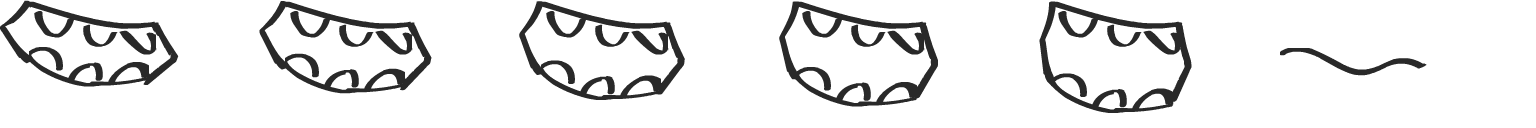
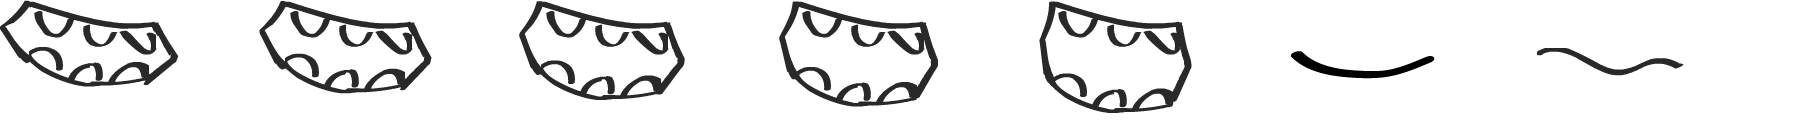
wip

Changed region(s): [[0.0, 0.0, 0.8125, 0.9062], [0.8125, 0.3438, 0.9375, 0.5938]]

diff --git a/src/components/Farty.vue b/src/components/Farty.vue
@@ -132,33 +132,33 @@ export default class Farty extends Vue {
     {
       id: 'food1',
       name: 'chicken',
-      file: require("../assets/chicken.svg"),
+      file: require("../assets/chicken.png"),
       foodObj: new Food('MEAT', 'meat1', 'audio', 15, 5, 0, 2)
     },
     {
       id: 'food2',
       name: 'hamburger',
-      file: require("../assets/hamburger.svg"),
+      file: require("../assets/cheese-burger.png"),
       foodObj: new Food('SANDWICH', 'burger', 'audio', 7, 7, 7, 2)
     },
     {
       id: 'food3',
       name: 'cheese',
-      file: require("../assets/cheese.svg"),
+      file: require("../assets/pizza.png"),
       foodObj: new Food('CHEESE', 'cheese1', 'audio', 15, 5, 0, .5)
     },
     {
       id: 'food4',
       name: 'bread',
-      file: require("../assets/bread.svg"),
+      file: require("../assets/bread.png"),
       foodObj: new Food('BREAD', 'bread1', 'audio', 0, 0, 20, .5)
     },
-    {
-      id: 'food5',
-      name: 'butter',
-      file: require("../assets/jar.svg"),
-      foodObj: new Food('BUTTER', 'butter1', 'audio', 0, 15, 0, .5)
-    }
+    // {
+    //   id: 'food5',
+    //   name: 'butter',
+    //   file: require("../assets/jar.svg"),
+    //   foodObj: new Food('BUTTER', 'butter1', 'audio', 0, 15, 0, .5)
+    // }
 
   ]
 

diff --git a/src/game.ts b/src/game.ts
@@ -16,6 +16,7 @@ export default class GameLaunch {
             // },
             scale: {
                 mode: Phaser.Scale.FIT,
+                //autoCenter:Phaser.Scale.CENTER_BOTH,
                 width: 300,
                 height: 200,
                 parent: 'game-container',

diff --git a/vue.config.js b/vue.config.js
@@ -1,5 +1,5 @@
 module.exports = {
-   productionSourceMap: false,
+   productionSourceMap: true,
    chainWebpack: config => {
       /* disable insertion of assets as data urls b/c Phaser doesn't support it */
       const rules = [
